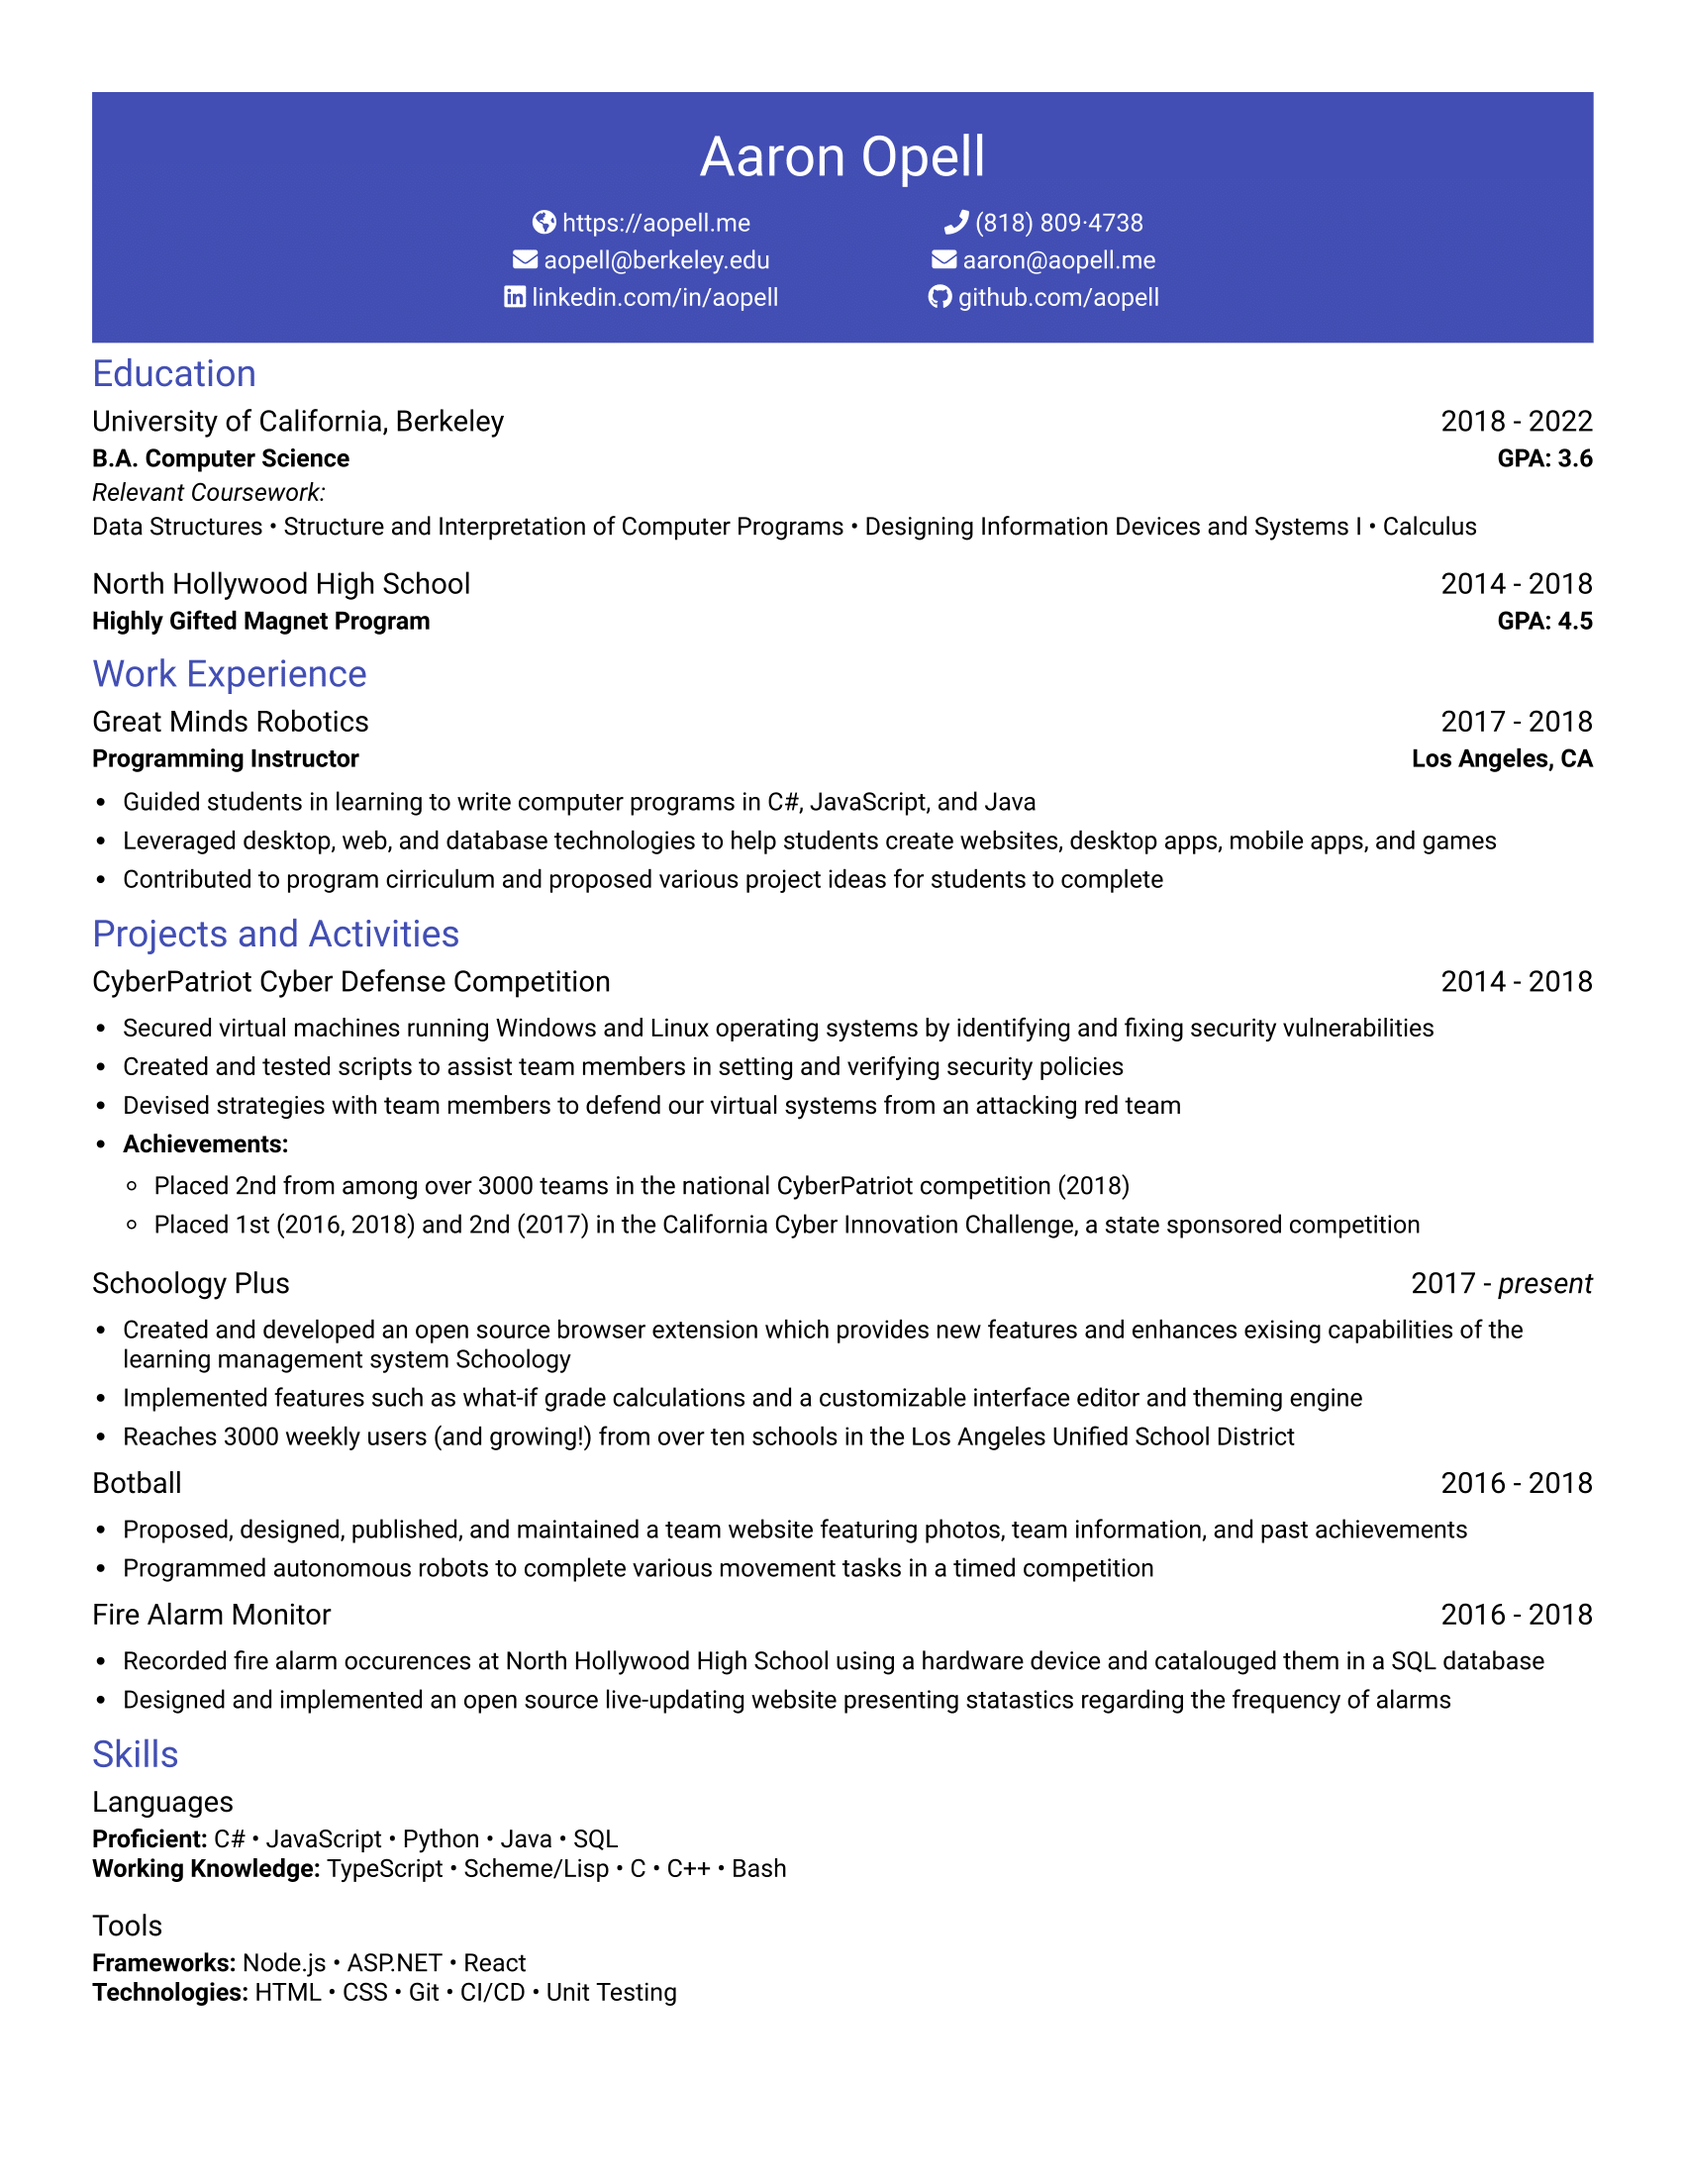
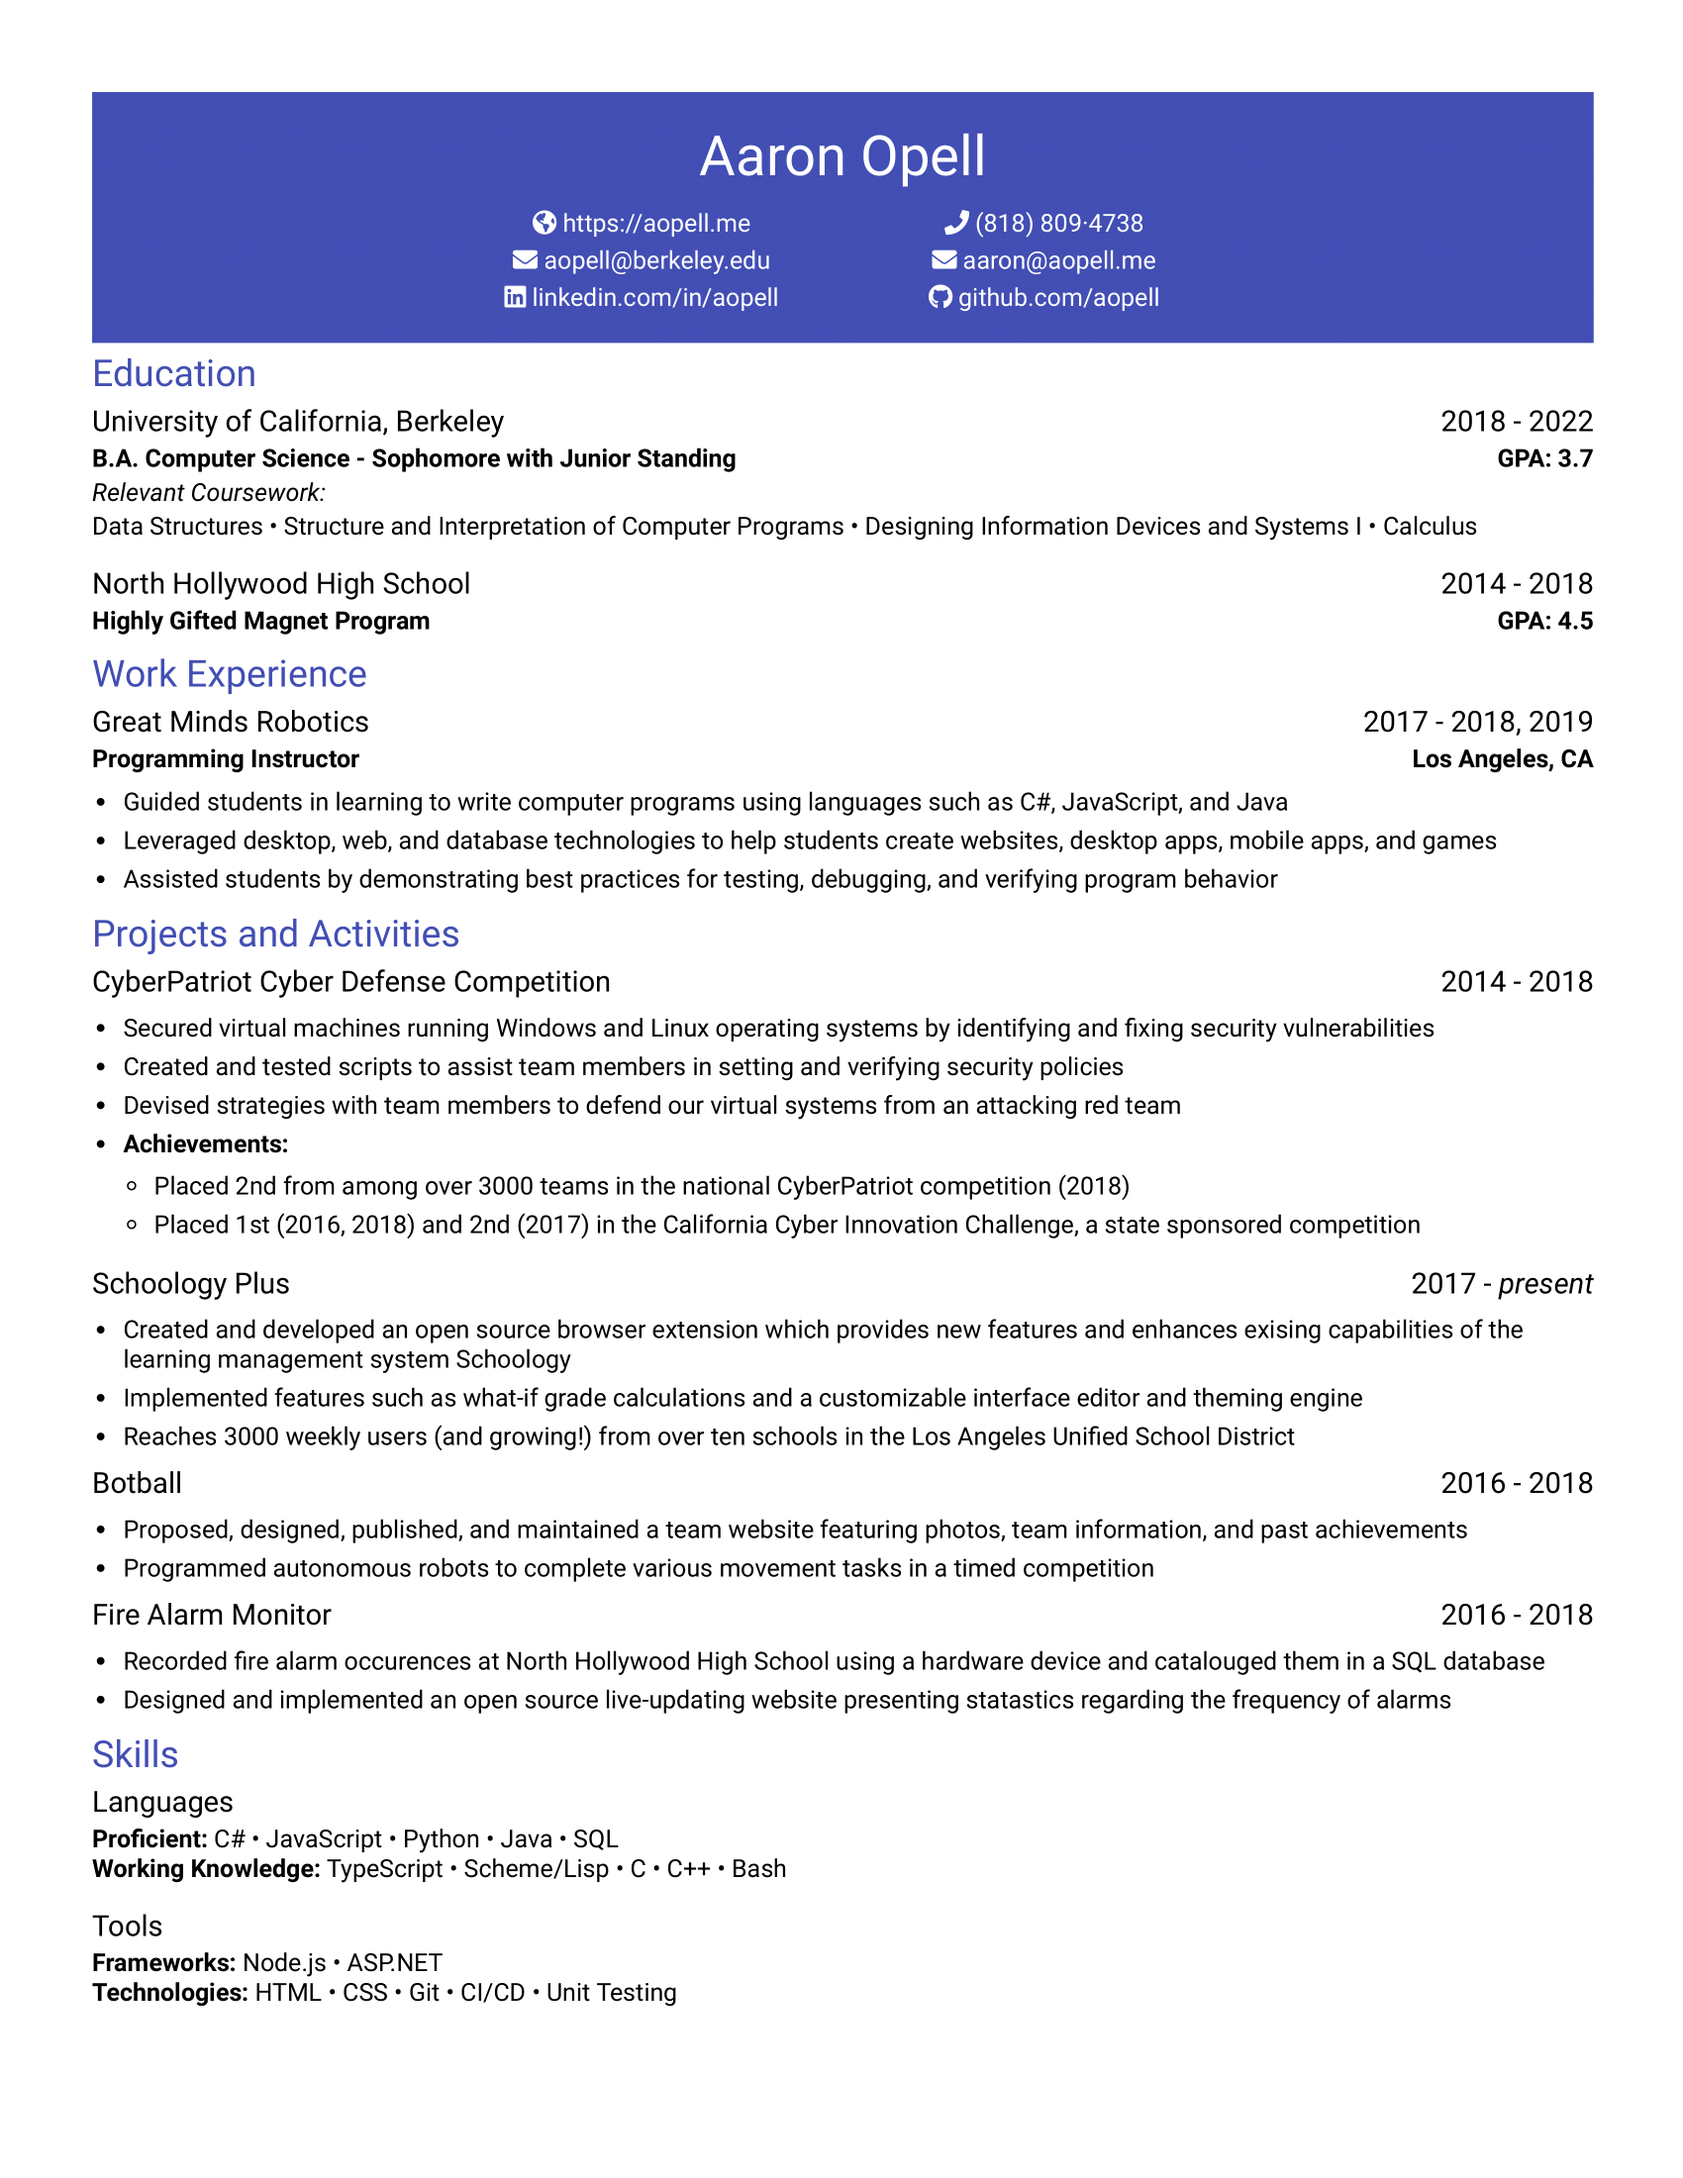
Updated resume

diff --git a/resume/resume.html b/resume/resume.html
@@ -33,8 +33,8 @@
                     <span>2018 - 2022</span>
                 </h3>
                 <b class="sides">
-                    <span>B.A. Computer Science</span>
-                    <span>GPA: 3.6</span>
+                    <span>B.A. Computer Science - Sophomore with Junior Standing</span>
+                    <span>GPA: 3.7</span>
                 </b>
                 <div class="item">
                     <i>Relevant Coursework:</i>
@@ -58,19 +58,21 @@
             <div class="item">
                 <h3 class="sides">
                     <span>Great Minds Robotics</span>
-                    <span>2017 - 2018</span>
+                    <span>2017 - 2018, 2019</span>
                 </h3>
                 <b class="sides">
                     <span>Programming Instructor</span>
                     <span>Los Angeles, CA</span>
                 </b>
                 <ul>
-                    <li>Guided students in learning to write computer programs in C#, JavaScript, and Java</li>
+                    <li>Guided students in learning to write computer programs using languages such as C#, JavaScript,
+                        and Java</li>
                     <li>Leveraged desktop, web, and database technologies to help students create websites, desktop
                         apps,
                         mobile apps, and
                         games</li>
-                    <li>Contributed to program cirriculum and proposed various project ideas for students to complete
+                    <li>Assisted students by demonstrating best practices for testing, debugging, and verifying program
+                        behavior
                     </li>
                 </ul>
             </div>
@@ -161,7 +163,7 @@
                 <div>
                     <div>
                         <b>Frameworks: </b>
-                        <span>Node.js &bull; ASP.NET &bull; React</span>
+                        <span>Node.js &bull; ASP.NET</span>
                     </div>
                     <div>
                         <b>Technologies:</b>
